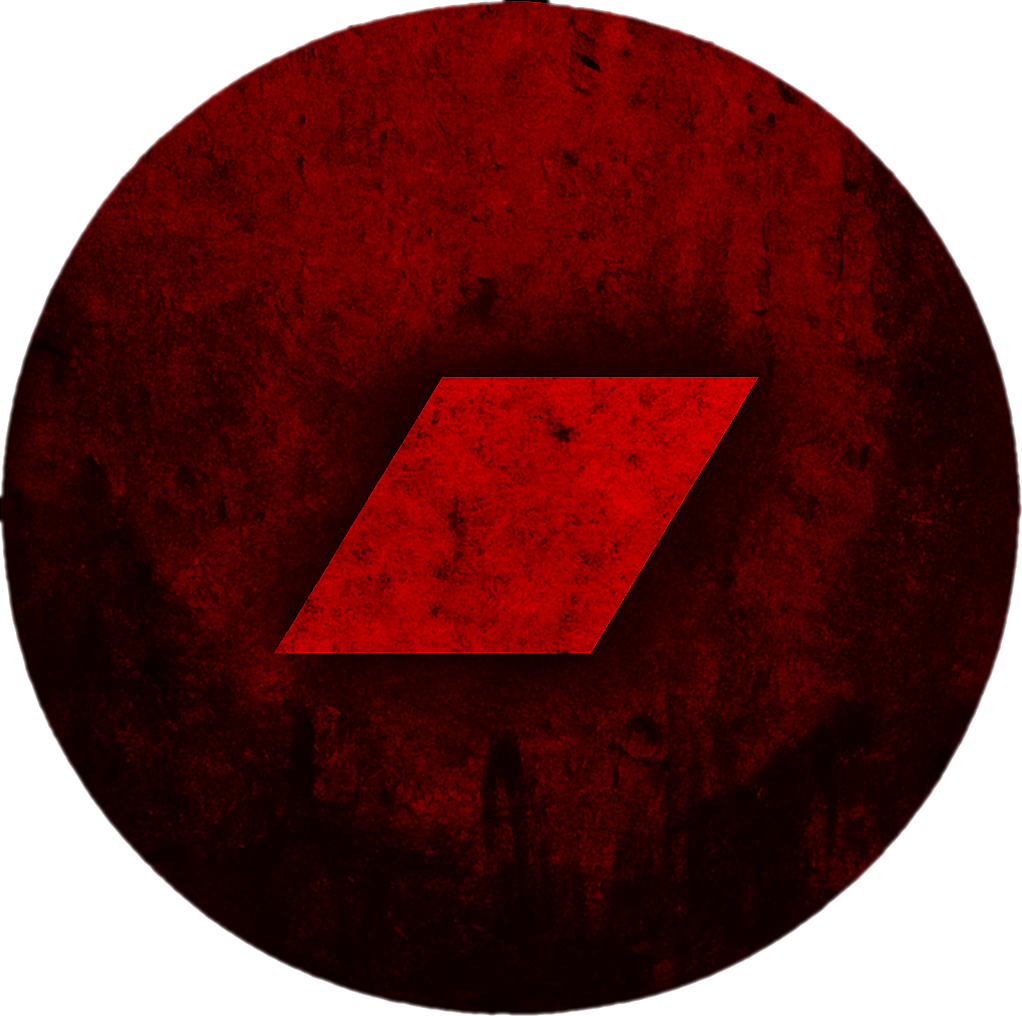
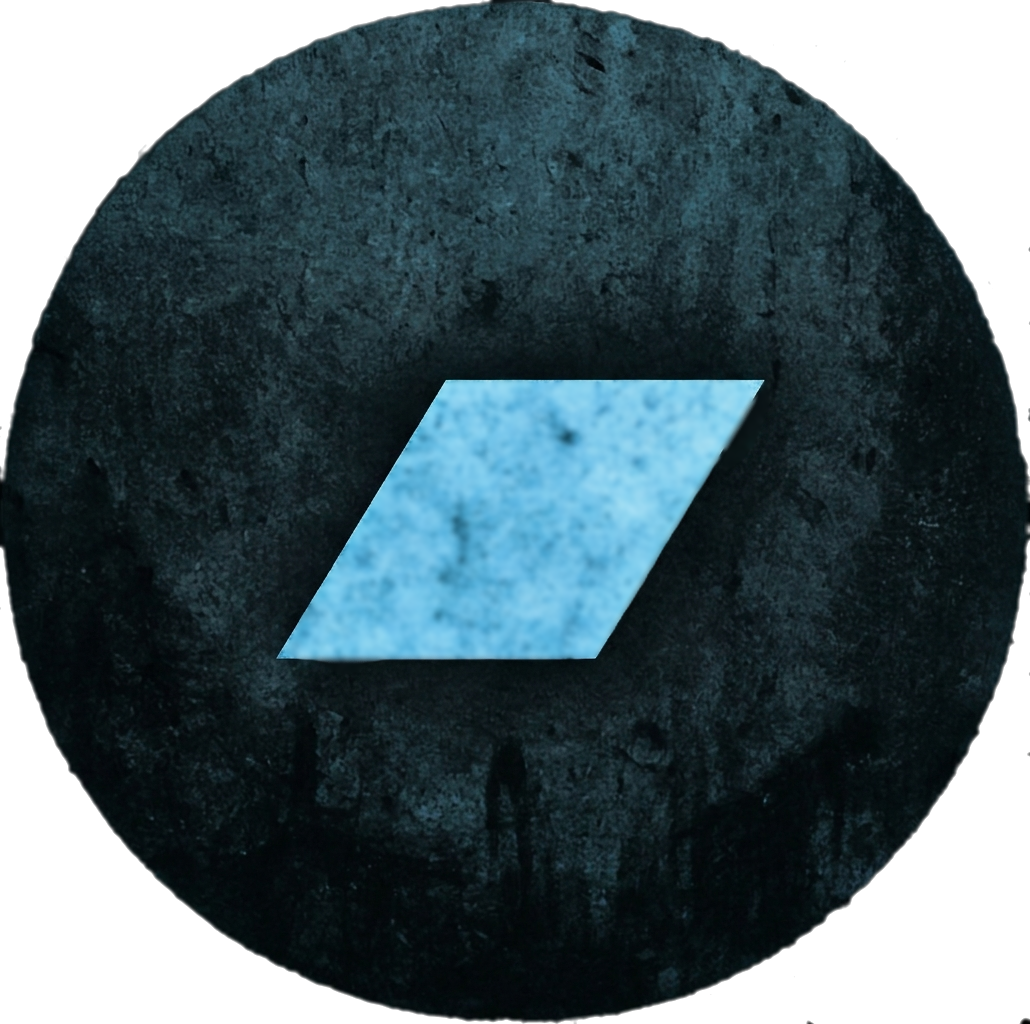
Add files via upload

diff --git a/index.html b/index.html
@@ -12,12 +12,12 @@
       window.cookieconsent.initialise({
         "palette": {
           "popup": {
-            "background": "#000000",   /* siyah tema */
-            "text": "#ff4d4d"          /* kırmızı yazı */
+            "background": "#000000",
+            "text": "#8cd0ff"
           },
           "button": {
-            "background": "#ff4d4d",   /* kırmızı buton */
-            "text": "#ffffff"
+            "background": "#8cd0ff",
+            "text": "#000000"
           }
         },
         "theme": "classic",
@@ -25,7 +25,7 @@
           "message": "Cursed web sitesinde en iyi deneyim için çerezler kullanılmaktadır.",
           "dismiss": "Tamam",
           "link": "Detaylı bilgi",
-          "href": "https://cursedineternity.com"
+          "href": "https://cursedineternity.netlify.app/cerez-politikasi.html"  /* Çerez politikası sayfasının URL'si */
         }
       })
     });
@@ -104,27 +104,27 @@
   <!-- Ana Sayfa -->
   <section id="home" class="page-section active">
   <div class="coming-soon-section" style="text-align:center; margin:40px auto 0 auto; background:rgba(0,0,0,0.7); padding:24px 16px 16px 16px; border-radius:12px; max-width:600px;">
-    <div class="coming-soon-title" style="font-size:28px; font-weight:bold; color:#ff4d4d; margin-bottom:18px; letter-spacing:2px;">Coming Soon...</div>
-    <img src="riseofsilence.png" alt="Rise Of Silence" style="width:100%; max-width:340px; border-radius:10px; margin-bottom:18px; box-shadow:0 0 16px #000;">
-    <div class="countdown-box" data-date="Feb 6, 2026 00:00:00" style="display:flex; justify-content:center; gap:20px; background:#000; padding:10px 0; border-radius:8px; margin:18px 0;">
+    <div class="coming-soon-title" style="font-size:28px; font-weight:bold; color:#8cd0ff; margin-bottom:18px; letter-spacing:2px;">Coming Soon...</div>
+    <img src="ashensky.png" alt="Rise Of Silence" style="width:100%; max-width:340px; border-radius:10px; margin-bottom:18px; box-shadow:0 0 16px #000;">
+    <div class="countdown-box" data-date="August 6, 2026 00:00:00" style="display:flex; justify-content:center; gap:20px; background:#000; padding:10px 0; border-radius:8px; margin:18px 0;">
       <div class="countdown-unit" style="text-align:center;">
-        <span class="count-num days" style="font-size:28px; font-weight:bold; color:#ff4d4d; display:block; letter-spacing:1px;">00</span>
+        <span class="count-num days" style="font-size:28px; font-weight:bold; color:#8cd0ff; display:block; letter-spacing:1px;">00</span>
         <span class="count-label" style="font-size:12px; color:white; letter-spacing:1px;">GÜN</span>
       </div>
       <div class="countdown-unit" style="text-align:center;">
-        <span class="count-num hours" style="font-size:28px; font-weight:bold; color:#ff4d4d; display:block; letter-spacing:1px;">00</span>
+        <span class="count-num hours" style="font-size:28px; font-weight:bold; color:#8cd0ff; display:block; letter-spacing:1px;">00</span>
         <span class="count-label" style="font-size:12px; color:white; letter-spacing:1px;">SAAT</span>
       </div>
       <div class="countdown-unit" style="text-align:center;">
-        <span class="count-num minutes" style="font-size:28px; font-weight:bold; color:#ff4d4d; display:block; letter-spacing:1px;">00</span>
+        <span class="count-num minutes" style="font-size:28px; font-weight:bold; color:#8cd0ff; display:block; letter-spacing:1px;">00</span>
         <span class="count-label" style="font-size:12px; color:white; letter-spacing:1px;">DK</span>
       </div>
       <div class="countdown-unit" style="text-align:center;">
-        <span class="count-num seconds" style="font-size:28px; font-weight:bold; color:#ff4d4d; display:block; letter-spacing:1px;">00</span>
+        <span class="count-num seconds" style="font-size:28px; font-weight:bold; color:#8cd0ff; display:block; letter-spacing:1px;">00</span>
         <span class="count-label" style="font-size:12px; color:white; letter-spacing:1px;">SN</span>
       </div>
     </div>
-    <a href="https://distrokid.com/hyperfollow/cursedineternity1/rise-of-silence" target="_blank" class="presave-btn" style="display:inline-flex; align-items:center; gap:8px; background:#ff4d4d; color:white; font-weight:bold; padding:12px 24px; border-radius:8px; text-decoration:none; transition:background 0.3s; margin-top:10px; font-size:18px;">
+    <a href="https://distrokid.com/hyperfollow/illusionsplayandcursedineternity/ashen-sky" target="_blank" class="presave-btn" style="display:inline-flex; align-items:center; gap:8px; background:#8cd0ff; color:#000; font-weight:bold; padding:12px 24px; border-radius:8px; text-decoration:none; transition:background 0.3s; margin-top:10px; font-size:18px;">
       <img src="spotify.png" alt="Spotify" style="width:24px; height:24px;">
       Pre-Save Albümü
     </a>
@@ -132,7 +132,7 @@
   <div class="spotify-section">
     <div class="player-box">
       <div class="logo-kan-wrapper" style="margin-bottom: 20px;">
-        <img src="Cursed In Eternity.png" alt="Cursed In Eternity Logo" style="width: 160px; height: auto;">
+        <img src="cursed-in-eternity.png" alt="Cursed In Eternity Logo" style="width: 160px; height: auto;">
         <img src="rope.png" class="rope-effect">
       </div>
       <iframe style="border-radius:12px" src="https://open.spotify.com/embed/artist/1YgeIDUsYT1yPsPD8utZuN?utm_source=generator&theme=0" width="100%" height="700" frameborder="0" allowfullscreen="" allow="autoplay; clipboard-write; encrypted-media; fullscreen; picture-in-picture" loading="lazy"></iframe>
@@ -153,6 +153,7 @@
     <img src="Cursed İn Eternity 3.jpg" alt="Galeri Görseli 3" class="gallery-img">
     <img src="Cursed İn Eternity 4.jpg" alt="Galeri Görseli 4" class="gallery-img">
     <img src="Cursed İn Eternity 5.jpg" alt="Galeri Görseli 5" class="gallery-img">
+    <img src="Cursed İn Eternity 6.png" alt="Galeri Görseli 6" class="gallery-img">
   <!-- Galeri Lightbox Modal -->
   <div id="galleryModal" class="gallery-modal">
     <span class="gallery-close" id="galleryClose">&times;</span>
@@ -207,7 +208,44 @@
   <!-- Albüm Grid Yan Yana -->
   <div class="diskografi-grid" style="display: flex; flex-wrap: wrap; justify-content: center; gap: 40px;">
 
-    <!-- Rise Of Silence (2026) Diskografi Kartı - EN BAŞA TAŞINDI -->
+    <!-- Ashen Sky (2026) Diskografi Kartı -->
+    <div class="album-card">
+      <div class="album-cover">
+        <img src="ashensky.png" alt="Ashen Sky">
+        <div class="album-info">
+          <h3>Ashen Sky</h3>
+          <p>Çıkış Yılı: 2026</p>
+        </div>
+        <div class="album-countdown">
+          <div class="countdown-box" data-date="August 6, 2026 00:00:00">
+            <div class="countdown-unit">
+              <span class="count-num days">00</span>
+              <span class="count-label">GÜN</span>
+            </div>
+            <div class="countdown-unit">
+              <span class="count-num hours">00</span>
+              <span class="count-label">SAAT</span>
+            </div>
+            <div class="countdown-unit">
+              <span class="count-num minutes">00</span>
+              <span class="count-label">DK</span>
+            </div>
+            <div class="countdown-unit">
+              <span class="count-num seconds">00</span>
+              <span class="count-label">SN</span>
+            </div>
+          </div>
+        </div>
+        <div class="tracklist">
+          <ul>
+            <li>Ashen Sky</li>
+            <li>Ash Beneath The Sun</li>
+          </ul>
+        </div>
+      </div>
+    </div>
+
+    <!-- Rise Of Silence (2026) Diskografi Kartı -->
     <div class="album-card">
       <div class="album-cover">
         <img src="riseofsilence.png" alt="Rise Of Silence">
@@ -217,8 +255,15 @@
         </div>
         <div class="tracklist">
           <ul>
-            <li>Albüm şarkı listesi buraya gelecek...</li>
-          </ul>
+            <li>Obsessions</li>
+            <li>Aciz Dunyam v2</li>
+            <li>Again</li>
+            <li>Kan ve Karanlik v2</li>
+            <li>Rise of Silence</li>
+            <li>Toprak</li>
+            <li>Daylight v2</li>
+            <li>Darkness Falls v2</li>
+         </ul>
         </div>
       </div>
     </div>
@@ -429,7 +474,7 @@
 
       <!-- Rise Hoodie -->
       <div style="text-align: center; width: 240px;">
-        <img src="https://cdn.shopier.app/pictures_large/DagonWearAnkara_32d9dba67804ec2c7563c6b6378649df.jpeg" alt="Rise Hoodie" class="bio-hover" style="width: 100%; border-radius: 10px;">
+        <img src="https://cdn.shopier.app/pictures_large/dagonatelier_9f1fcfb1190081bd3858850b4b9be13d.jpeg" alt="Rise Hoodie" class="bio-hover" style="width: 100%; border-radius: 10px;">
         <p><strong>Rise of the Silence Oversize Unisex Hoodie</strong></p>
         <a href="https://www.shopier.com/32102174" target="_blank"><button>Satın Al</button></a>
       </div>
@@ -450,7 +495,7 @@
 
       <!-- Rise T-Shirt -->
       <div style="text-align: center; width: 240px;">
-        <img src="https://cdn.shopier.app/pictures_large/DagonWearAnkara_3b81c9dfd174468fd79d1552319bba34.jpg" alt="Rise T-Shirt" class="bio-hover" style="width: 100%; border-radius: 10px;">
+        <img src="https://cdn.shopier.app/pictures_large/dagonatelier_b3dbc85cb0da3d3d8ef750887d15b07e.png" alt="Rise T-Shirt" class="bio-hover" style="width: 100%; border-radius: 10px;">
         <p><strong>Rise of the Silence Oversize Unisex T-Shirt</strong></p>
         <a href="https://www.shopier.com/32102147" target="_blank"><button>Satın Al</button></a>
       </div>
@@ -486,7 +531,7 @@
 
         <button type="submit">Gönder</button>
 
-        <div id="successMessage" style="display: none; color: #0f9d58; font-size: 20px; margin-top: 20px;">
+        <div id="successMessage" style="display: none; color: #8cd0ff; font-size: 20px; margin-top: 20px;">
           ✅ Mesajınız başarıyla gönderildi!
         </div>
       </form>
@@ -547,7 +592,7 @@
           cd.querySelector('.minutes').textContent = minutes.toString().padStart(2, '0');
           cd.querySelector('.seconds').textContent = seconds.toString().padStart(2, '0');
           if (distance < 0) {
-            cd.innerHTML = "<span style='color:#ff4d4d;'>Albüm Çıktı!</span>";
+            cd.innerHTML = "<span style='color:#8cd0ff;'>Albüm Çıktı!</span>";
           }
         }, 1000);
       });
@@ -629,13 +674,13 @@
     </div>
 
     <!-- Footer (Cursed) -->
-    <footer style="display:flex;align-items:center;justify-content:center;gap:18px;flex-wrap:wrap; font-size:14px; background-color:#000; padding:20px; color:#ff4d4d;">
+    <footer style="display:flex;align-items:center;justify-content:center;gap:18px;flex-wrap:wrap; font-size:14px; background-color:#000; padding:20px; color:#8cd0ff;">
       <span>
         © 2026 Cursed In Eternity — Tüm hakları saklıdır. |
-        <a href="#" onclick="showPage('kvkk')" style="color:#ff4d4d; text-decoration:underline;">KVKK Bildirgesi</a> |
-        <a href="#" onclick="showPage('privacy')" style="color:#ff4d4d; text-decoration:underline;">Gizlilik Politikası</a>
+        <a href="#" onclick="showPage('kvkk')" style="color:#8cd0ff; text-decoration:underline;">KVKK Bildirgesi</a> |
+        <a href="#" onclick="showPage('privacy')" style="color:#8cd0ff; text-decoration:underline;">Gizlilik Politikası</a>
       </span>
-      <span style="margin-left:auto; font-weight:600; color:#ff4d4d;">
+      <span style="margin-left:auto; font-weight:600; color:#8cd0ff;">
         Copyright © 2026 Berat ERTEK
       </span>
     </footer>

diff --git a/style.css b/style.css
@@ -1,3 +1,7 @@
+:root {
+  --theme-color: #8cd0ff;
+}
+
 /* Galeri Lightbox Modal */
 .gallery-modal {
   display: none;
@@ -17,7 +21,7 @@
   max-width: 100vw;
   max-height: 98vh;
   border-radius: 16px;
-  box-shadow: 0 0 32px #ff4d4d;
+  box-shadow: 0 0 32px var(--theme-color);
   margin-bottom: 18px;
 }
 .gallery-modal-caption {
@@ -30,7 +34,7 @@
   position: absolute;
   top: 32px;
   right: 48px;
-  color: #ff4d4d;
+  color: var(--theme-color);
   font-size: 48px;
   font-weight: bold;
   cursor: pointer;
@@ -45,7 +49,7 @@
   top: 50%;
   transform: translateY(-50%);
   background: rgba(0,0,0,0.7);
-  color: #ff4d4d;
+  color: var(--theme-color);
   border: none;
   font-size: 48px;
   padding: 12px 24px;
@@ -61,14 +65,14 @@
   right: 32px;
 }
 .gallery-nav:hover {
-  background: #ff4d4d;
-  color: #fff;
+  background: var(--theme-color);
+  color: #000;
 }
 /* style.css - Cursed In Eternity */
 body {
   margin: 0;
   padding: 0;
-  background-image: url('background.png');
+  background-image: url('background2.png');
   background-size: cover;
   background-repeat: repeat-y;
   background-position: top center;
@@ -105,7 +109,7 @@ body {
 }
 .menu-center a:hover {
   background-color: rgba(255, 255, 255, 0.2);
-  color: #ff4d4d;
+  color: var(--theme-color);
 }
 .menu-center a .rope-effect {
   position: absolute;
@@ -129,7 +133,7 @@ body {
 }
 .logo-kan-wrapper:hover {
   transform: scale(1.1);
-  filter: drop-shadow(0 0 10px #ff4d4d);
+  filter: drop-shadow(0 0 10px var(--theme-color));
 }
 .logo-kan-wrapper .rope-effect {
   position: absolute;
@@ -184,7 +188,7 @@ body {
   text-align: center;
 }
 #iletisim {
-  background-image: url('background.png');
+  background-image: url('background2.png');
   background-size: cover;
   background-repeat: no-repeat;
   background-position: center;
@@ -229,8 +233,8 @@ body {
 .form-container button {
   width: 100%;
   padding: 16px;
-  background-color: #0f9d58;
-  color: white;
+  background-color: var(--theme-color);
+  color: #000;
   border: none;
   border-radius: 8px;
   font-size: 20px;
@@ -299,9 +303,34 @@ body {
 .count-num {
   font-size: 28px;
   font-weight: bold;
-  color: #ff4d4d;
+  color: var(--theme-color);
   display: block;
   letter-spacing: 1px;
+}
+
+.album-countdown {
+  margin: 12px 0 0;
+}
+
+.album-countdown .countdown-box {
+  flex-wrap: wrap;
+  gap: 8px;
+  background: rgba(0, 0, 0, 0.85);
+  padding: 8px 6px;
+  border-radius: 8px;
+  margin: 0;
+}
+
+.album-countdown .countdown-unit {
+  min-width: 42px;
+}
+
+.album-countdown .count-num {
+  font-size: 18px;
+}
+
+.album-countdown .count-label {
+  font-size: 9px;
 }
 .count-label {
   font-size: 12px;
@@ -319,7 +348,7 @@ body {
 .coming-soon-title {
   font-size: 28px;
   font-weight: bold;
-  color: #ff4d4d;
+  color: var(--theme-color);
   margin-bottom: 18px;
   letter-spacing: 2px;
 }
@@ -327,8 +356,8 @@ body {
   display: inline-flex;
   align-items: center;
   gap: 8px;
-  background: #ff4d4d;
-  color: white;
+  background: var(--theme-color);
+  color: #000;
   font-weight: bold;
   padding: 12px 24px;
   border-radius: 8px;
@@ -355,7 +384,7 @@ body {
 }
 .gallery-grid img:hover {
   transform: scale(1.05);
-  box-shadow: 0 0 32px #ff4d4d;
+  box-shadow: 0 0 32px var(--theme-color);
 }
 @media (max-width: 768px) {
   .top-bar {

diff --git a/script.js b/script.js
@@ -81,7 +81,7 @@ function startCountdown() {
       cd.querySelector('.minutes').textContent = minutes.toString().padStart(2, '0');
       cd.querySelector('.seconds').textContent = seconds.toString().padStart(2, '0');
       if (distance < 0) {
-        cd.innerHTML = "<span style='color:#ff4d4d;'>Albüm Çıktı!</span>";
+        cd.innerHTML = "<span style='color:#8cd0ff;'>Albüm Çıktı!</span>";
       }
     }, 1000);
   });
